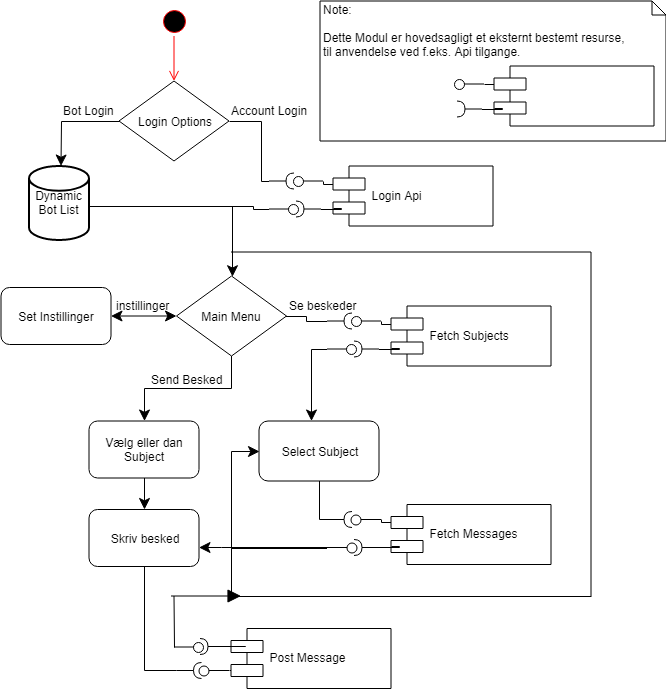
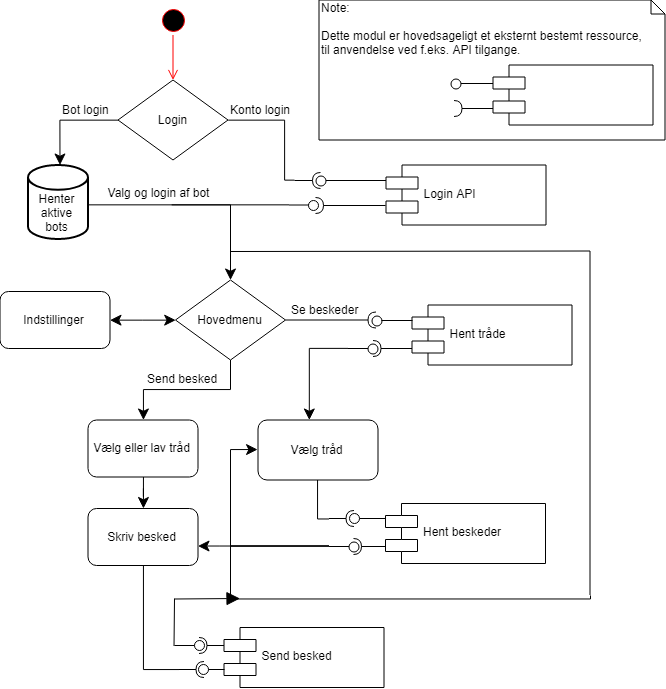
Workshop

diff --git a/Projectdoc/Metode.tex b/Projectdoc/Metode.tex
@@ -2,36 +2,105 @@
 \subsection{Overordnet system design}
 \begin{figure}[H]
     \centering
-    \includegraphics[width=0.85\linewidth]{Projectdoc/Assets/Illustrationer/system-diagram.png}
+    \includegraphics[width=0.75\linewidth]{Projectdoc/Assets/Illustrationer/system-diagram.png}
     \caption{System aktiverings diagram}
     \label{fig:sysdiagram}
 \end{figure}
 
-Systemet beskrevet ved [Figur \ref{fig:sysdiagram}] er hovedsageligt designet efter et user activated action event flow. 
-Dette vil sige at alle systemets aktiviteter er baseret på en brugers aktive handlinger, og kan derved styres fra et centralt sted. Her tales om enten brugerens egen device, eller en central system server, der kun responder på brugerens kommandoer.
-En af de stører fordele ved at have en central server, i modsætning til brugerense device for håndtering, er den markant stører mulighed for lokalt data. På en central server er der mulighed for at forebygge heavy-load og f.eks. loade, samt gemme (som en slags cashe), alle beskeder for en specifik tråd, inden brugeren faktisk beder om dennes indhold. Derved kan man benytte serverens idel-state til at aktivt forebygge aktiviteter, og derved minske fremtidig load time.
+Systemet beskrevet ved [Figur \ref{fig:sysdiagram}] er hovedsageligt designet efter et User Activated Action Event Flow. 
+Dette vil sige at alle systemets aktiviteter er baseret på en brugers aktive handlinger, og kan derved styres fra et centralt sted. Her tales om enten brugerens egen enhed, eller en central system server, der kun responderer på brugerens kommandoer.
+En af de store fordele ved at have en central server, i modsætning til brugernes enhed som håndtering, er den markant større mulighed for lokalt server arbejde. På en central server er der mulighed for at forebygge heavy-load og f.eks. indlæse, samt gemme (som en slags cache), alle beskeder for en specifik tråd, inden brugeren faktisk beder om dens indhold. Derved kan man benytte serverens hviletilstand til aktivt at forebygge aktiviteter, og derved mindske fremtidige belastnings problemer.
 
+\begin{figure}[H]
+    \begin{subfigure}{0.5\textwidth}
+        \centering
+        \includegraphics[width=1\linewidth, height=4cm]{Projectdoc/Assets/Illustrationer/Security_diagram_1.png} 
+        \caption{Central server}
+        \label{fig:central_server}
+    \end{subfigure}
+    \begin{subfigure}{0.5\textwidth}
+        \centering
+        \includegraphics[width=0.7\linewidth, height=4cm]{Projectdoc/Assets/Illustrationer/Security_diagram_2.png}
+        \caption{Client-baseret system}
+        \label{fig:decentral_server}
+    \end{subfigure}
+    \caption{Forskellen på central og decentral server struktur}
+    \label{fig:serverstruktur}
+\end{figure}
 
+En central server trods dens eventuelle positive effekter, er dog også et generelt større sikkerhedsbrud. F.eks. Kunne en sådan server, (Illustreret ved [Figur \ref{fig:central_server}]), lække generelle lagerede informationer, eller lige frem enten blive overvåget for kommunikation, samt blive spærret som en helhed. Dette vil selvfølgelig også kunne ske for den enkelte bruger [\ref{fig:decentral_server}], men disse ville i sådanne tilfælde også kun påvirke den enkelte, og ikke systemet som en helhed.\\
+Grundet disse negative effekter for en central server, der generelt berører brugerens sikkerhed, vil den mest optimale løsning for projektets sikre kommunikation være, at anvende brugernes enkelte enheder til system håndtering. Dette vil dog ikke i sig selv kunne tages til konklusion, da et system baseret alene på enkelte enheder egen håndteringer, vil kunne danne en større kompromitterings fare. Denne fare vil kunne opstå ved anvendes af lokalt cache for data fetching, da denne information vil kunne findes på flere nodes, dog uden denne cache vil de enkelte enheder skulle foretage mange heavy loads forespørgsler. Disse forespørgsler vil ikke bare danne større spekulation hos netværksmonitorering, og derved en større sandsynlighed for terminering, men også danne et meget stort dataforbrug hos enddevices, samt en lang load time, der kan fremprovokere brugerfejl.
 
-En central server trods dens eventuelle positive effekter, er dog også et generelt stører sikkerhedsbrug. F.eks. Kunne en sådan server leake generelle lagerede informationer, eller lige frem enten blive overvåget for kommunikation, samt blive spæret som en helhed. Dette vil selvfølgelig også kunne ske for den enkelte bruger, men disse ville i sådanne tilfælde også kun påvirke den enkelte, og ikke systemet som en helhed. Grundet disse negative effekter for en central server, der generelt berører brugerens sikkerhed, vil den mest optimale løsning for projektets sikre kommunikation være at anvende brugernes enkelte devices til system håndtering.
+% foruden selve strukturen:
+% Er der også problemer med fetching af sammenhæng.
 
-% Central server, pros/cons
+% Tilsidst:
+% Kan der være et kulturelt problem i steganografi på et socialt medie.
 
 \subsection{Teori}
+Top
 
-% Hvad er Api struktur ?
-
+\subsubsection{API struktur / Socket kommunikation}
+% Hvad er Api struktur ? Hvorfor bruger man APIer? REST og CRUD beskrivelse
 % Hvad er socket kommunikation ?
+
+\subsubsection{Caching}
+
+\subsubsection{Decentralisering}
+For at holde den samlede kommunikationsplatform så sikkert, og pålideligt, som muligt, vil mulighederne for decentralisering af systemet blive diskuteret i dette afsnit.
+Det grundlæggende princip er, at jo mere et givet system afhænger af bestemte nodes, jo mere sårbart vil det også være. På den anden side, vil anvendelsen af servere i centralt systemet også tillade en langt højere effektivitet. Derfor vil forskellige aspekter af kommunikationsplatformen blive diskuteret for at kunne finde et kompromis mellem helt centraliseret og helt decentraliseret.
+
+For at kunne opretholde en mængde af bots, her værende dummy brugere som sikrer anonymitet for brugeren, associeret med en potentielt mistænkelig opførelse, vil det være nødvendigt at kunne tilføje nye bots til netværket løbende, samt opdatere status af nuværende bots, da denne type bots har været lukket ned på flere sociale medier. Én mulig løsning på dette problem kunne være at holde en database opdateret med statussen af de enkelte bots. Hvis en given bot så blev lukket ned, ville den opdaterede database, gøre enhver bruger i stand til blot at vælge en anden bot. Problemet med denne løsning er, at den vil introducere et svagt link, databasen selv, der ville gøre en væsentlig del af systemet ubrugeligt, hvis den blev taget ned, indtil en erstatning kunne sættes op. Såfremt denne database kun kontaktes for at få listen opdateret, vil trafikken imellem den og klienterne dog være begrænset. Man kunne også forestille sig en ekstra database, som kun vil blive kontaktet hvis den primære er inaktiv, og at denne database kender til andre databaser som er backups af den primære. Denne opbygning vil gøre det meget svært at lukke systemet i længere tid.
+% Så længe den primære anvendelse af systemet foregår igennem en hjemmeside, vil denne server kunne sidde med denne bot liste selv. Dette gør dog blot denne server endnu mere kritisk.
+En måde at undgå dette databaseproblem, er at lade hver klient have en lokal liste over aktive bots. Denne liste vil så med jævne intervaller blive opdateret igennem klient opdateringer. Med denne fremgang er det tænkeligt, at systemet vil kræve mange opdateringer, eller at der ofte vil være et antal utilgængelige bots på listen. 
+% Denne liste kunne også findes på en database som udelukkende har denne liste af bots. Dette vil minimere trafikken til databasen, hvilket vil mindske dens synlighed.
+
+
+% Ingen interconnectivity mellem devices, men skal facilitere data udveksling.... How the f-ing hell?
+
+% Blockchain, ha lol (det ville kunne trackes, ik? Jo, i stor stor stor grad)
+% Bitconneeeeeeeeeeeeeeeeeeeeeeeeeeeeeeeeect
+% Noice!
 
 % Dynamic updating / Databaser ?
 
 
+\subsection{Detaljeret system design} % ny titel
+% Beskrivelse af vores tilgang til dette afsnit, med de overordnet spørgsmål og flere løsningsforslag
 
-\subsection{Detaljeret system design}
-% Hvordan skal forum strukturen være ?
-% ^ sammenkædningen af beskeder.
-% Hvordan kan man sikre en fornuftig køre tid ? (Undgå 10000 undersøgelser for at finde én kommentar)
+\subsubsection{Sammenkædning af beskeder}
+% Sammenkædning af beskeder
+% - Dobbelt linked list - algoritme
 
-% - Database dynamisk
+% - Brugerne har egen post på egen profil (problem med anonymitet???)
+\textbf{Lagring af den hemmelige besked på brugerens profil}
+\begin{figure}[H]
+    \centering
+    \includegraphics[width=0.8\linewidth]{Projectdoc/Assets/Illustrationer/userbased-system.png}
+    \caption{}
+    \label{fig:userbased}
+\end{figure}
+Brugerne logger ind på platformen ved hjælp af deres egne kontooplysninger til et given socialt medie. Platformen har nu mulighed for at sende den hemmelige besked direkte til brugerens egen konto. Platformen lægger automatisk den hemmelige besked ind i den pågældende bruger's opslag, og returnere samtidigt opslagets unikke ID tilbage. Dette ID bliver sammen med et unikt tråd ID 
 
-% - 
+Det vil sige at brugerne selv har ansvar for at lagre beskeden,
+
+
++ Hvis en central BOT bliver undersøgt vil beskederne ikke kunne spores, men mindre de har bottens secret
++ Sammenkædning af posts af samme forfatter
+
+- Ingen løsning til skjul af metadata
+- Ekstra requests
+- Brugeren kan slette deres posts udenom system, og ødelægge trådens struktur
+% - Central server / server cache (Sikkerheds brist)
+
+% Hvordan kan man sikre en fornuftig køre tid? (Undgå 10000 undersøgelser for at finde én kommentar)
+% - Formindsk chancen for mistænkelig data trafik. Både i server requests og det visuelt uploaded
+% - Load tid
+
+% API udbyderen som brist i systemet?
+% - TOS problemer
+% - Lukning af bots og dermed samtaler
+
+% Hvordan skal forum strukturen være ? (Design)
+
+% Hvordan kan vi skulle sammenkædnings nødvendig data i metadata?

diff --git a/Struktureret_System_Udvikling/Workshop_2/WorkShopMain.tex b/Struktureret_System_Udvikling/Workshop_2/WorkShopMain.tex
@@ -1,0 +1,59 @@
+\documentclass[11pt]{article}
+\renewcommand{\baselinestretch}{1.20} 
+\usepackage[utf8]{inputenc}
+\usepackage[english]{babel}
+\usepackage{graphicx}
+\usepackage{wrapfig}
+\usepackage{subcaption}
+\usepackage{geometry}
+\usepackage{xcolor}
+\usepackage{float}
+\usepackage{mdframed}
+\usepackage{fancyhdr}
+\usepackage{lastpage}
+\usepackage{booktabs}% http://ctan.org/pkg/booktabs
+\newcommand{\tabitem}{~~\llap{\textbullet}~~}
+\geometry{a4paper, total={170mm,237mm}, left=20mm, top=20mm}
+\setlength{\abovecaptionskip}{15pt plus 3pt minus 2pt}
+
+\pagestyle{fancy}
+\fancyhf{}
+\rfoot{Side \thepage \hspace{1pt} / \pageref{LastPage}}
+\begin{document}
+    
+    % Title page
+    \input{Struktureret_System_Udvikling/Workshop_1/TitlePage.tex}
+    
+    % Table of contents
+    \renewcommand{\baselinestretch}{0.8}
+    \tableofcontents
+    \renewcommand{\baselinestretch}{1.20}
+    
+    \section{Beskrivelse}
+    \textbf{Mini projekt: Vejr station}\\
+    Dagens workshop omhandler at videre design på sidste  af en vejr station til anvendelse i et parcel hus. \\
+    Tanken er at forskellige sensorer registrerer en eller flere informationer der skal til for at beskrive
+    vejret. Disse data samles op via en enhed der kan videregive information til en app på brugerens smart
+    phone, evt. krydret med en præcis vejrudsigt i den kommende time(r) ved at udnytte services fra DMI
+    eller anden vejr tjeneste.
+    
+    \newpage
+    
+    % First task
+    \input{Struktureret_System_Udvikling/Workshop_1/Use_Case.tex}
+    \newpage
+    
+    % Second Task
+    \input{Struktureret_System_Udvikling/Workshop_1/Description.tex}
+    \newpage
+    
+    % Third Task
+    \input{Struktureret_System_Udvikling/Workshop_1/Requirements.tex}
+    \newpage
+    
+    % Fourth Task.
+    \input{Struktureret_System_Udvikling/Workshop_1/Functional_blocks.tex}
+    
+    % Fifth Task.
+    %\input{}
+\end{document}
